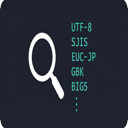
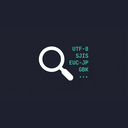
feat: 0.1.1向けのUX改善とアイコン更新
- アイコンを縦横比維持のレターボックス128×128に調整
- 結果ツリーから絶対パス・ワークスペース相対パスのコピーとOSで表示を追加
- 設定を開くを拡張IDに連動、Output名と通知タイトルを統一、検索エラー時はOutputを表示
- Focus Search View コマンドとコマンドパレット検索の日本語プロンプトを追加
- FileNode に resourceUri を付与
- README / CHANGELOG / NLS を追随

Made-with: Cursor

diff --git a/packages/grep-multi-encode/src/extension.ts b/packages/grep-multi-encode/src/extension.ts
@@ -1,11 +1,12 @@
+import * as path from "path";
 import * as vscode from "vscode";
 import { getExtensionConfig } from "./config";
 import { searchWorkspace } from "./searchEngine";
 import { SearchPanelProvider, SearchRequestOptions } from "./searchPanel";
-import { SearchResultsProvider } from "./searchView";
+import { FileNode, SearchResultsProvider } from "./searchView";
 
 export function activate(context: vscode.ExtensionContext): void {
-  const outputChannel = vscode.window.createOutputChannel("Multi-Encode Search");
+  const outputChannel = vscode.window.createOutputChannel("Grep Multi Encode");
   const isJapanese = vscode.env.language.toLocaleLowerCase().startsWith("ja");
   const resultsProvider = new SearchResultsProvider(isJapanese ? "ja" : "en");
   let currentSearchCancellation: vscode.CancellationTokenSource | undefined;
@@ -59,7 +60,7 @@ export function activate(context: vscode.ExtensionContext): void {
       await vscode.window.withProgress(
         {
           location: vscode.ProgressLocation.Notification,
-          title: `Multi-Encode Search: ${query}`,
+          title: `Grep Multi Encode: ${query}`,
           cancellable: true
         },
         async (
@@ -116,6 +117,7 @@ export function activate(context: vscode.ExtensionContext): void {
     } catch (error) {
       const message = error instanceof Error ? error.message : String(error);
       outputChannel.appendLine(`[search:error] ${message}`);
+      outputChannel.show(true);
       resultsProvider.setError(message);
       searchPanelProvider.setIdle(query, message, undefined, Date.now() - startedAt);
       void vscode.window.showErrorMessage(message);
@@ -145,8 +147,10 @@ export function activate(context: vscode.ExtensionContext): void {
   context.subscriptions.push(
     vscode.commands.registerCommand("multiEncodeSearch.searchInWorkspace", async () => {
       const query = await vscode.window.showInputBox({
-        prompt: "Enter text to search across multiple encodings",
-        placeHolder: "Search text"
+        prompt: isJapanese
+          ? "複数エンコードを横断して検索する語句を入力"
+          : "Enter text to search across multiple encodings",
+        placeHolder: isJapanese ? "検索語" : "Search text"
       });
 
       if (!query) {
@@ -185,7 +189,61 @@ export function activate(context: vscode.ExtensionContext): void {
 
   context.subscriptions.push(
     vscode.commands.registerCommand("multiEncodeSearch.openSettings", () => {
-      void vscode.commands.executeCommand("workbench.action.openSettings", "@ext:yuheimizoguchi.grep-multi-encode");
+      void vscode.commands.executeCommand("workbench.action.openSettings", `@ext:${context.extension.id}`);
+    })
+  );
+
+  context.subscriptions.push(
+    vscode.commands.registerCommand("multiEncodeSearch.copyAbsolutePath", async (node: FileNode) => {
+      const filePath = node?.result?.filePath;
+      if (!filePath) {
+        return;
+      }
+      await vscode.env.clipboard.writeText(filePath);
+      void vscode.window.setStatusBarMessage(
+        isJapanese ? `絶対パスをコピーしました` : `Copied absolute path`,
+        2500
+      );
+    })
+  );
+
+  context.subscriptions.push(
+    vscode.commands.registerCommand("multiEncodeSearch.copyRelativePath", async (node: FileNode) => {
+      const filePath = node?.result?.filePath;
+      if (!filePath) {
+        return;
+      }
+      const folder = vscode.workspace.getWorkspaceFolder(vscode.Uri.file(filePath));
+      if (!folder) {
+        void vscode.window.showWarningMessage(
+          isJapanese
+            ? "ワークスペース内のファイルではないため、相対パスを求められません。"
+            : "File is not under a workspace folder; cannot build a relative path."
+        );
+        return;
+      }
+      const relative = path.relative(folder.uri.fsPath, filePath).split(path.sep).join("/");
+      await vscode.env.clipboard.writeText(relative);
+      void vscode.window.setStatusBarMessage(
+        isJapanese ? `相対パスをコピーしました` : `Copied relative path`,
+        2500
+      );
+    })
+  );
+
+  context.subscriptions.push(
+    vscode.commands.registerCommand("multiEncodeSearch.revealFileInOs", async (node: FileNode) => {
+      const filePath = node?.result?.filePath;
+      if (!filePath) {
+        return;
+      }
+      await vscode.commands.executeCommand("revealFileInOS", vscode.Uri.file(filePath));
+    })
+  );
+
+  context.subscriptions.push(
+    vscode.commands.registerCommand("multiEncodeSearch.focusSearchView", async () => {
+      await vscode.commands.executeCommand("workbench.view.extension.multiEncodeSearch");
     })
   );
 }

diff --git a/packages/grep-multi-encode/src/searchView.ts b/packages/grep-multi-encode/src/searchView.ts
@@ -146,13 +146,14 @@ class StatusNode extends vscode.TreeItem {
   }
 }
 
-class FileNode extends vscode.TreeItem {
+export class FileNode extends vscode.TreeItem {
   constructor(public readonly result: FileResultItem) {
     super(
       path.basename(result.filePath),
       vscode.TreeItemCollapsibleState.Collapsed
     );
 
+    this.resourceUri = vscode.Uri.file(result.filePath);
     this.description = `[${result.encoding}] ${result.matches.length} match${result.matches.length === 1 ? "" : "es"}`;
     this.tooltip = new vscode.MarkdownString(
       `**${escapeMarkdown(result.relativePath)}**\n\nEncoding: \`${result.encoding}\`\nMatches: \`${result.matches.length}\``

diff --git a/packages/grep-multi-encode/CHANGELOG.md b/packages/grep-multi-encode/CHANGELOG.md
@@ -1,5 +1,14 @@
 # Changelog
 
+## 0.1.1
+
+- マーケットプレイス表示用アイコンを改善（縦横比を維持したレターボックス）
+- 結果ツリーで一致ファイルを右クリックし、絶対パス・ワークスペース相対パスのコピー／OS のファイルマネージャで表示ができるようにした
+- 「設定を開く」が正しい拡張機能 ID（`@ext:`）を参照するよう修正
+- 進行通知・Output チャンネル名を「Grep Multi Encode」に統一し、検索エラー時は Output を自動表示
+- コマンドパレットから検索サイドバーにフォーカスできるコマンドを追加
+- コマンドパレット検索の入力プロンプトを UI 言語に合わせて表示
+
 ## 0.1.0
 
 - Grep Multi Encode の初回リリース

diff --git a/packages/grep-multi-encode/README.en.md b/packages/grep-multi-encode/README.en.md
@@ -42,6 +42,8 @@ It is designed for repositories that contain both modern UTF-8 text and legacy J
 - `Grep Multi Encode: Search in Workspace`
 - `Grep Multi Encode: Cancel Search`
 - `Grep Multi Encode: Clear Results`
+- `Grep Multi Encode: Focus Search View` (opens the Grep Multi Encode sidebar)
+- `Grep Multi Encode: Copy Absolute Path` / `Copy Relative Path` (relative to the workspace folder) / `Reveal in File Explorer / Finder` (also from the Results tree context menu on a file)
 
 ## Configuration
 
